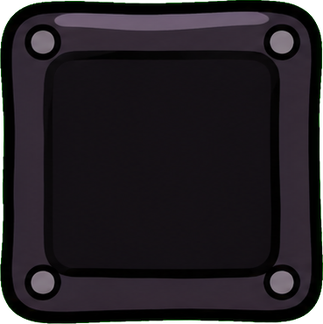
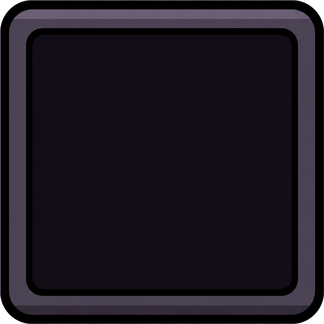
Cornici dei pezzi dritte (WB-078) in ogni posto, simbolo del tipo, fascia INDOSSATO; zaino a 4 per riga che scorre, senza filtro delle famiglie
Claude-Session: https://claude.ai/code/session_01XmXLjjy9RGiSrkpZyEDmsR

diff --git a/tools/grafica/fucina.py b/tools/grafica/fucina.py
@@ -384,14 +384,23 @@ MENU_INTERI = [
     ("gioca_sigillo", "gioca_sigillo", 166, "WB-046"),
     ("pedana", "pedana_griglia_1", 266, "WB-050"),
     ("zainetto", "zaino_chiuso_1", 124, "WB-048"),
-    # caselle, livelli, segni (WB-044)
-    ("casella", "casella", 324, "WB-044"),
-    ("casella_scelta", "casella_scelta", 324, "WB-044"),
-    ("casella_vuota", "casella_vuota", 324, "WB-044"),
+    # le caselle dei pezzi, dritte (WB-078, Sergio 18 nov: al posto di quelle di WB-044 in
+    # ogni posto): la cornice, la linguetta del tipo in alto a sinistra col suo simbolo,
+    # la fascia INDOSSATO in basso
+    ("casella", "cornice", 324, "WB-078"),
+    ("casella_scelta", "cornice_scelta", 324, "WB-078"),
+    ("casella_vuota", "cornice_vuota", 324, "WB-078"),
+    ("linguetta", "linguetta", 112, "WB-078"),
+    ("fascia_indossato", "fascia_indossato", 64, "WB-078"),
+    ("tipo_elmo", "tipo_elmo", 80, "WB-078"),
+    ("tipo_corazza", "tipo_corazza", 80, "WB-078"),
+    ("tipo_mantello", "tipo_mantello", 80, "WB-078"),
+    ("tipo_stivali", "tipo_stivali", 80, "WB-078"),
+    ("tipo_guanti", "tipo_guanti", 80, "WB-078"),
+    # livelli, segni (WB-044)
     ("chiodo", "chiodo", 40, "WB-044"),
     ("livello_ferro", "livello_ferro", 80, "WB-044"),
     ("livello_oro", "livello_oro", 80, "WB-044"),
-    ("spunta", "spunta", 56, "WB-044"),
     ("sconto", "sconto", 64, "WB-044"),
     ("podio_1", "podio_1", 420, "WB-044"),
     ("podio_2", "podio_2", 352, "WB-044"),
